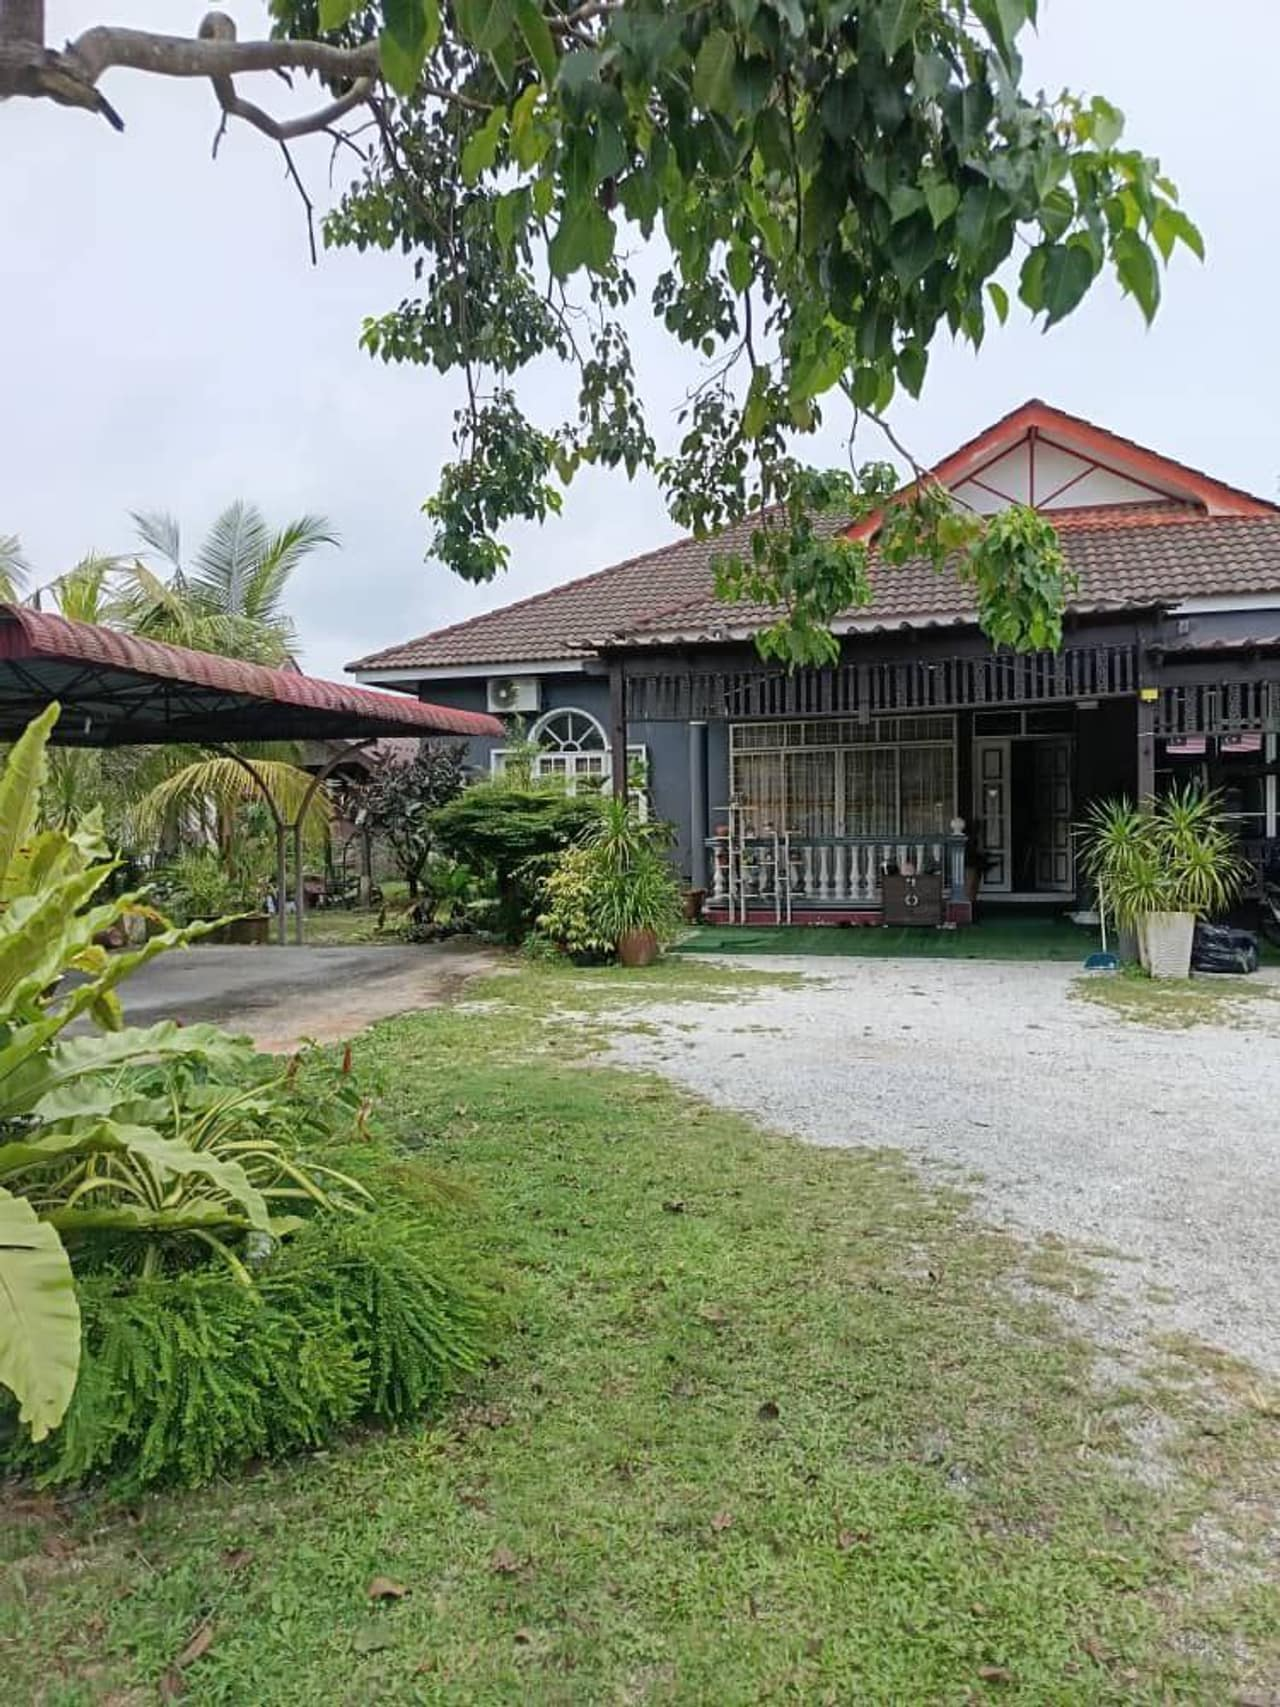
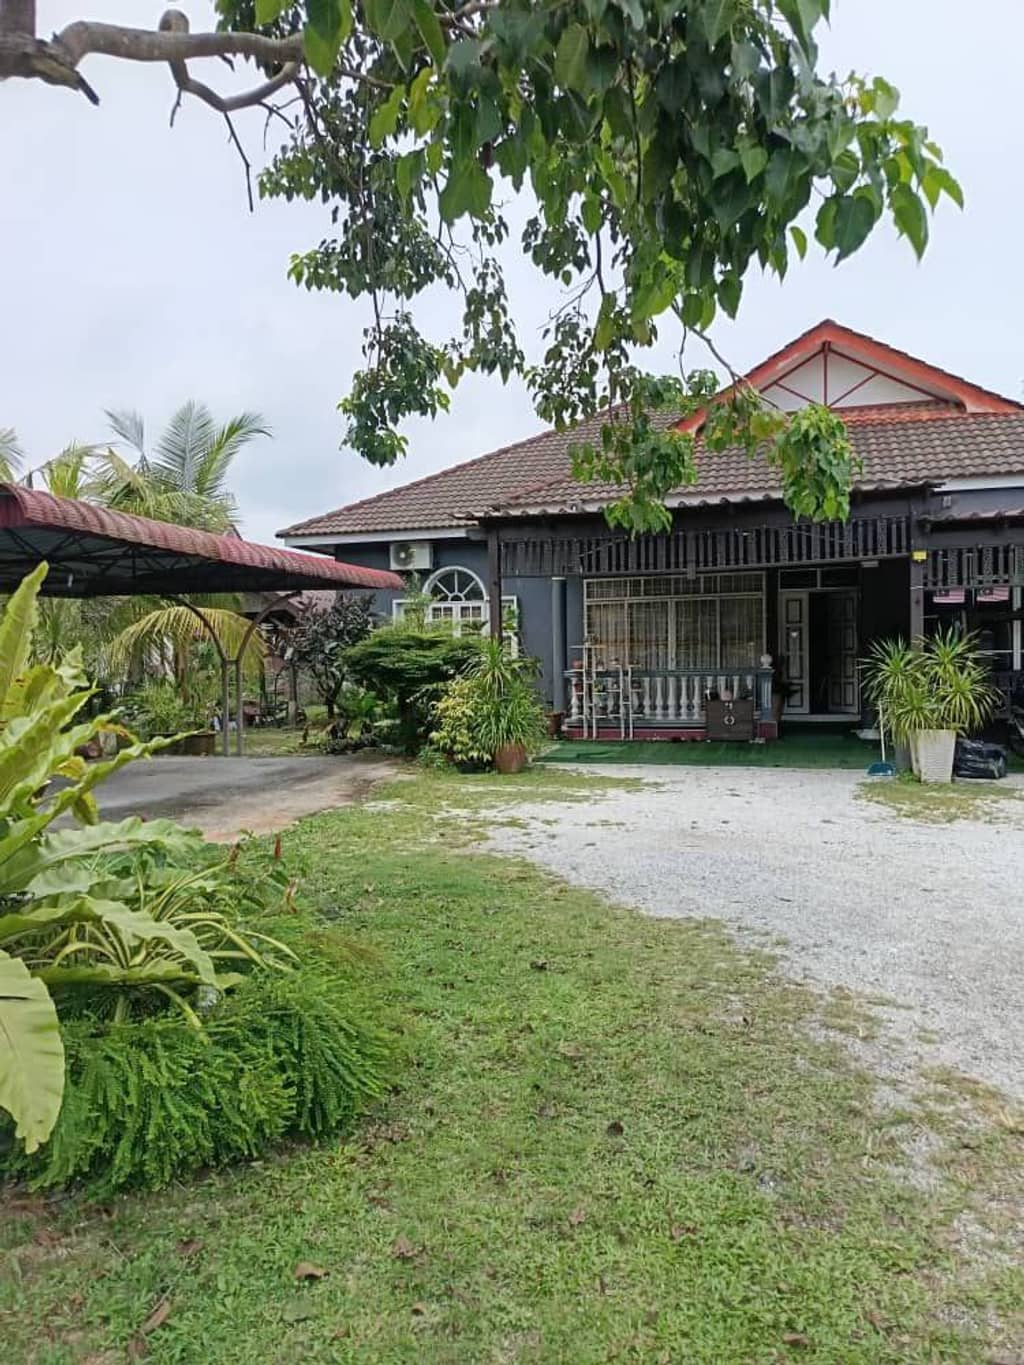
perf: add 320w thumbnails and a hero width set (#6)
Lighthouse's image-delivery audit on the deployed home page reported ~1 MB of
waste. Two causes, both layout-size mismatches:

- Gallery thumbnails render at roughly 321x428 CSS px but the srcset started at
  640w, so the browser took a 640w file for a 320px slot. Added a 320w variant
  (13-17 KB against 86-118 KB) and 320w to the slider srcset.
- The hero image rendered at 617x823 but shipped a single 1280w file, and the
  served 853x1707 source was larger than any slot needs. The hero now has a
  640/1024/1280 set with a smaller default and a matching srcset.

Also widened the slider's sizes attribute to describe the rendered box across
breakpoints instead of a flat 480px.

Image bytes on the home page drop from ~1,323 KB to roughly a third of that on
narrow viewports, while retina screens still get the 1024w/1280w candidates.

Changed region(s): [[0.1562, 0.6462, 0.2188, 0.7077], [0.4375, 0.4923, 0.4688, 0.5231]]

diff --git a/scripts/prune-images.py b/scripts/prune-images.py
@@ -71,7 +71,7 @@ keep = set(KEEP_ALWAYS)
 for r in refs:
     keep.add(r)
     base = re.sub(r'\.(jpe?g|png|webp)$', '', r)
-    for suffix in ('', '-640', '-1024', '-1280'):
+    for suffix in ('', '-320', '-640', '-1024', '-1280'):
         keep.add(f'{base}{suffix}.webp')
     keep.add(f'{base}-hero.webp')
     keep.add(f'{base}-hero.jpg')
